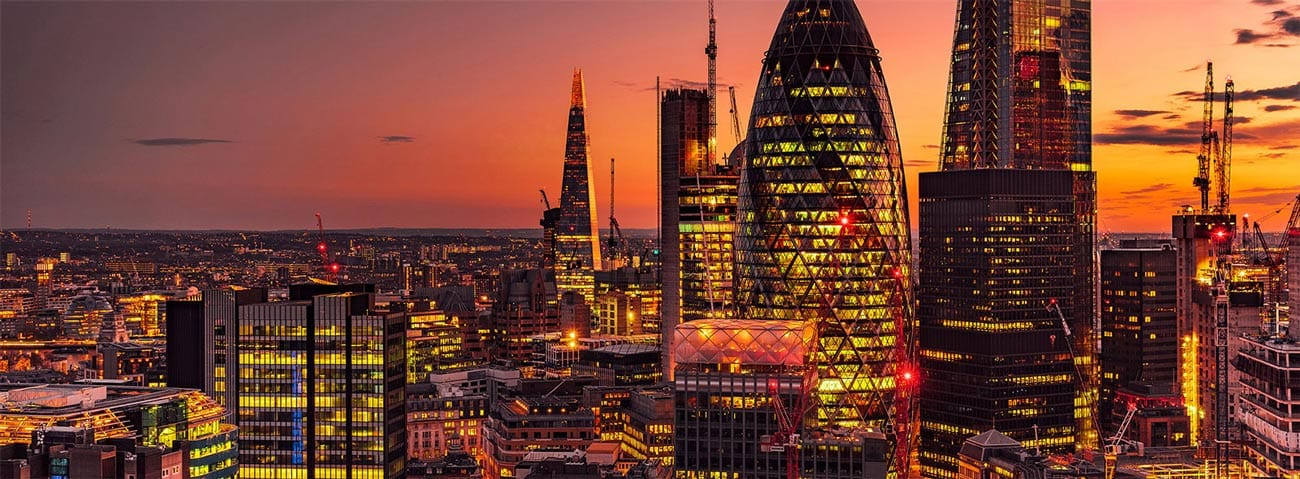
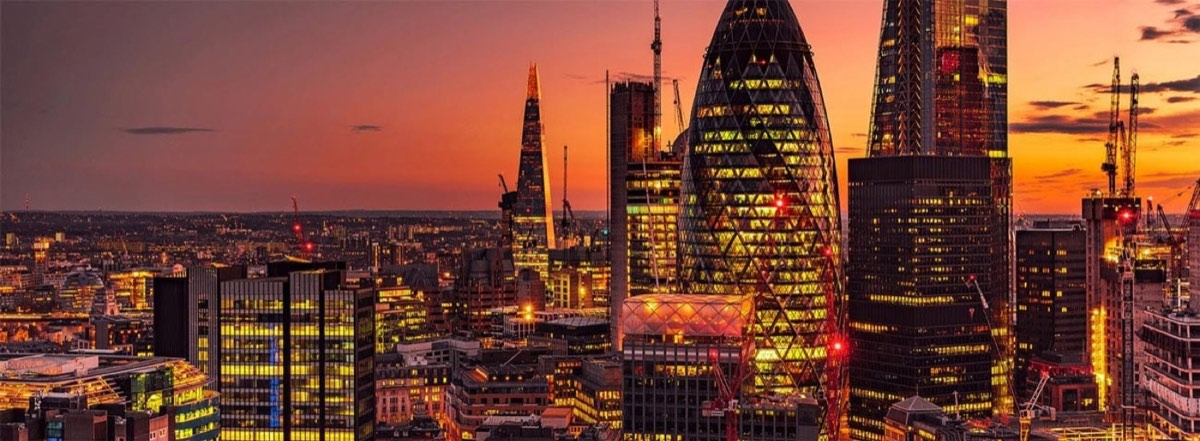
Optimise mobile performance
- Resize oversized case-study images (cs-d 1.3MB -> 260KB)
- Lazy-load below-the-fold card + logo images
- Trim Google Fonts to the 3 weights actually used

diff --git a/index.html b/index.html
@@ -8,7 +8,7 @@
 <link rel="icon" type="image/png" href="assets/images/favicon.png">
 <link rel="preconnect" href="https://fonts.googleapis.com">
 <link rel="preconnect" href="https://fonts.gstatic.com" crossorigin>
-<link href="https://fonts.googleapis.com/css2?family=Fraunces:ital,wght@0,400;0,500;0,600;0,700;1,400;1,500;1,600&family=Inter:wght@300;400;500;600;700&display=swap" rel="stylesheet">
+<link href="https://fonts.googleapis.com/css2?family=Fraunces:ital,wght@0,400;0,500;0,600;1,500&family=Inter:wght@400;500;600&display=swap" rel="stylesheet">
 <link rel="stylesheet" href="assets/css/styles.css">
 </head>
 <body>
@@ -88,26 +88,26 @@
   <div class="marquee">
     <div class="marquee__track">
       <div class="marquee__group">
-        <img src="assets/images/logos/diageo.png" alt="Diageo" style="height:56px">
-        <img src="assets/images/logos/superdrug.webp" alt="Superdrug" style="height:26px">
-        <img src="assets/images/logos/oculus.png" alt="Oculus VR" style="height:26px">
-        <img src="assets/images/logos/ajbell.png" alt="AJ Bell" style="height:30px">
-        <img src="assets/images/logos/skintique.webp" alt="Skintique" style="height:40px">
-        <img src="assets/images/logos/myota.png" alt="Myota Health" style="height:40px">
-        <img src="assets/images/logos/quotezone.png" alt="Quotezone" style="height:26px">
-        <img src="assets/images/logos/westwood.png" alt="Westwood" style="height:42px">
-        <img src="assets/images/logos/brand-extra.png" alt="MOJU" style="height:40px">
+        <img loading="lazy" decoding="async" src="assets/images/logos/diageo.png" alt="Diageo" style="height:56px">
+        <img loading="lazy" decoding="async" src="assets/images/logos/superdrug.webp" alt="Superdrug" style="height:26px">
+        <img loading="lazy" decoding="async" src="assets/images/logos/oculus.png" alt="Oculus VR" style="height:26px">
+        <img loading="lazy" decoding="async" src="assets/images/logos/ajbell.png" alt="AJ Bell" style="height:30px">
+        <img loading="lazy" decoding="async" src="assets/images/logos/skintique.webp" alt="Skintique" style="height:40px">
+        <img loading="lazy" decoding="async" src="assets/images/logos/myota.png" alt="Myota Health" style="height:40px">
+        <img loading="lazy" decoding="async" src="assets/images/logos/quotezone.png" alt="Quotezone" style="height:26px">
+        <img loading="lazy" decoding="async" src="assets/images/logos/westwood.png" alt="Westwood" style="height:42px">
+        <img loading="lazy" decoding="async" src="assets/images/logos/brand-extra.png" alt="MOJU" style="height:40px">
       </div>
       <div class="marquee__group" aria-hidden="true">
-        <img src="assets/images/logos/diageo.png" alt="" style="height:56px">
-        <img src="assets/images/logos/superdrug.webp" alt="" style="height:26px">
-        <img src="assets/images/logos/oculus.png" alt="" style="height:26px">
-        <img src="assets/images/logos/ajbell.png" alt="" style="height:30px">
-        <img src="assets/images/logos/skintique.webp" alt="" style="height:40px">
-        <img src="assets/images/logos/myota.png" alt="" style="height:40px">
-        <img src="assets/images/logos/quotezone.png" alt="" style="height:26px">
-        <img src="assets/images/logos/westwood.png" alt="" style="height:42px">
-        <img src="assets/images/logos/brand-extra.png" alt="" style="height:40px">
+        <img loading="lazy" decoding="async" src="assets/images/logos/diageo.png" alt="" style="height:56px">
+        <img loading="lazy" decoding="async" src="assets/images/logos/superdrug.webp" alt="" style="height:26px">
+        <img loading="lazy" decoding="async" src="assets/images/logos/oculus.png" alt="" style="height:26px">
+        <img loading="lazy" decoding="async" src="assets/images/logos/ajbell.png" alt="" style="height:30px">
+        <img loading="lazy" decoding="async" src="assets/images/logos/skintique.webp" alt="" style="height:40px">
+        <img loading="lazy" decoding="async" src="assets/images/logos/myota.png" alt="" style="height:40px">
+        <img loading="lazy" decoding="async" src="assets/images/logos/quotezone.png" alt="" style="height:26px">
+        <img loading="lazy" decoding="async" src="assets/images/logos/westwood.png" alt="" style="height:42px">
+        <img loading="lazy" decoding="async" src="assets/images/logos/brand-extra.png" alt="" style="height:40px">
       </div>
     </div>
   </div>
@@ -284,7 +284,7 @@
 
     <div class="cards">
       <a class="card reveal" href="case-studies/wellness-drink.html">
-        <img src="assets/images/case-studies/cs-d.jpg" alt="Wellness drink">
+        <img loading="lazy" decoding="async" src="assets/images/case-studies/cs-d.jpg" alt="Wellness drink">
         <div class="card__scrim" aria-hidden="true"></div>
         <div class="card__content">
           <span class="card__tag">Wellness</span>
@@ -297,7 +297,7 @@
       </a>
 
       <a class="card reveal" data-delay="0.1" href="case-studies/real-estate.html">
-        <img src="assets/images/case-studies/cs-real-estate.jpg" alt="Real estate">
+        <img loading="lazy" decoding="async" src="assets/images/case-studies/cs-real-estate.jpg" alt="Real estate">
         <div class="card__scrim" aria-hidden="true"></div>
         <div class="card__content">
           <span class="card__tag">Real estate</span>
@@ -310,7 +310,7 @@
       </a>
 
       <a class="card reveal" data-delay="0.2" href="case-studies/music-software.html">
-        <img src="assets/images/case-studies/cs-c.jpeg" alt="Music software">
+        <img loading="lazy" decoding="async" src="assets/images/case-studies/cs-c.jpeg" alt="Music software">
         <div class="card__scrim" aria-hidden="true"></div>
         <div class="card__content">
           <span class="card__tag">Music</span>
@@ -323,7 +323,7 @@
       </a>
 
       <a class="card reveal" href="case-studies/sustainable-office-supplies.html">
-        <img src="assets/images/case-studies/cs-eco-stationery.webp" alt="Sustainable office supplies">
+        <img loading="lazy" decoding="async" src="assets/images/case-studies/cs-eco-stationery.webp" alt="Sustainable office supplies">
         <div class="card__scrim" aria-hidden="true"></div>
         <div class="card__content">
           <span class="card__tag">Sustainability</span>
@@ -336,7 +336,7 @@
       </a>
 
       <a class="card reveal" data-delay="0.1" href="case-studies/custom-paint.html">
-        <img src="assets/images/case-studies/cs-b.jpeg" alt="Custom paint">
+        <img loading="lazy" decoding="async" src="assets/images/case-studies/cs-b.jpeg" alt="Custom paint">
         <div class="card__scrim" aria-hidden="true"></div>
         <div class="card__content">
           <span class="card__tag">Paint</span>
@@ -349,7 +349,7 @@
       </a>
 
       <a class="card reveal" data-delay="0.2" href="case-studies/festive-beverage.html">
-        <img src="assets/images/case-studies/cs-festive.jpg" alt="Festive beverage">
+        <img loading="lazy" decoding="async" src="assets/images/case-studies/cs-festive.jpg" alt="Festive beverage">
         <div class="card__scrim" aria-hidden="true"></div>
         <div class="card__content">
           <span class="card__tag">Alcohol</span>

diff --git a/case-studies/custom-paint.html b/case-studies/custom-paint.html
@@ -8,7 +8,7 @@
 <link rel="icon" type="image/png" href="../assets/images/favicon.png">
 <link rel="preconnect" href="https://fonts.googleapis.com">
 <link rel="preconnect" href="https://fonts.gstatic.com" crossorigin>
-<link href="https://fonts.googleapis.com/css2?family=Fraunces:ital,wght@0,400;0,500;0,600;0,700;1,400;1,500;1,600&family=Inter:wght@300;400;500;600;700&display=swap" rel="stylesheet">
+<link href="https://fonts.googleapis.com/css2?family=Fraunces:ital,wght@0,400;0,500;0,600;1,500&family=Inter:wght@400;500;600&display=swap" rel="stylesheet">
 <link rel="stylesheet" href="../assets/css/styles.css">
 </head>
 <body>

diff --git a/case-studies/festive-beverage.html b/case-studies/festive-beverage.html
@@ -8,7 +8,7 @@
 <link rel="icon" type="image/png" href="../assets/images/favicon.png">
 <link rel="preconnect" href="https://fonts.googleapis.com">
 <link rel="preconnect" href="https://fonts.gstatic.com" crossorigin>
-<link href="https://fonts.googleapis.com/css2?family=Fraunces:ital,wght@0,400;0,500;0,600;0,700;1,400;1,500;1,600&family=Inter:wght@300;400;500;600;700&display=swap" rel="stylesheet">
+<link href="https://fonts.googleapis.com/css2?family=Fraunces:ital,wght@0,400;0,500;0,600;1,500&family=Inter:wght@400;500;600&display=swap" rel="stylesheet">
 <link rel="stylesheet" href="../assets/css/styles.css">
 </head>
 <body>

diff --git a/case-studies/music-software.html b/case-studies/music-software.html
@@ -8,7 +8,7 @@
 <link rel="icon" type="image/png" href="../assets/images/favicon.png">
 <link rel="preconnect" href="https://fonts.googleapis.com">
 <link rel="preconnect" href="https://fonts.gstatic.com" crossorigin>
-<link href="https://fonts.googleapis.com/css2?family=Fraunces:ital,wght@0,400;0,500;0,600;0,700;1,400;1,500;1,600&family=Inter:wght@300;400;500;600;700&display=swap" rel="stylesheet">
+<link href="https://fonts.googleapis.com/css2?family=Fraunces:ital,wght@0,400;0,500;0,600;1,500&family=Inter:wght@400;500;600&display=swap" rel="stylesheet">
 <link rel="stylesheet" href="../assets/css/styles.css">
 </head>
 <body>

diff --git a/case-studies/real-estate.html b/case-studies/real-estate.html
@@ -8,7 +8,7 @@
 <link rel="icon" type="image/png" href="../assets/images/favicon.png">
 <link rel="preconnect" href="https://fonts.googleapis.com">
 <link rel="preconnect" href="https://fonts.gstatic.com" crossorigin>
-<link href="https://fonts.googleapis.com/css2?family=Fraunces:ital,wght@0,400;0,500;0,600;0,700;1,400;1,500;1,600&family=Inter:wght@300;400;500;600;700&display=swap" rel="stylesheet">
+<link href="https://fonts.googleapis.com/css2?family=Fraunces:ital,wght@0,400;0,500;0,600;1,500&family=Inter:wght@400;500;600&display=swap" rel="stylesheet">
 <link rel="stylesheet" href="../assets/css/styles.css">
 </head>
 <body>

diff --git a/case-studies/sustainable-office-supplies.html b/case-studies/sustainable-office-supplies.html
@@ -8,7 +8,7 @@
 <link rel="icon" type="image/png" href="../assets/images/favicon.png">
 <link rel="preconnect" href="https://fonts.googleapis.com">
 <link rel="preconnect" href="https://fonts.gstatic.com" crossorigin>
-<link href="https://fonts.googleapis.com/css2?family=Fraunces:ital,wght@0,400;0,500;0,600;0,700;1,400;1,500;1,600&family=Inter:wght@300;400;500;600;700&display=swap" rel="stylesheet">
+<link href="https://fonts.googleapis.com/css2?family=Fraunces:ital,wght@0,400;0,500;0,600;1,500&family=Inter:wght@400;500;600&display=swap" rel="stylesheet">
 <link rel="stylesheet" href="../assets/css/styles.css">
 </head>
 <body>

diff --git a/case-studies/wellness-drink.html b/case-studies/wellness-drink.html
@@ -8,7 +8,7 @@
 <link rel="icon" type="image/png" href="../assets/images/favicon.png">
 <link rel="preconnect" href="https://fonts.googleapis.com">
 <link rel="preconnect" href="https://fonts.gstatic.com" crossorigin>
-<link href="https://fonts.googleapis.com/css2?family=Fraunces:ital,wght@0,400;0,500;0,600;0,700;1,400;1,500;1,600&family=Inter:wght@300;400;500;600;700&display=swap" rel="stylesheet">
+<link href="https://fonts.googleapis.com/css2?family=Fraunces:ital,wght@0,400;0,500;0,600;1,500&family=Inter:wght@400;500;600&display=swap" rel="stylesheet">
 <link rel="stylesheet" href="../assets/css/styles.css">
 </head>
 <body>

diff --git a/about.html b/about.html
@@ -8,7 +8,7 @@
 <link rel="icon" type="image/png" href="assets/images/favicon.png">
 <link rel="preconnect" href="https://fonts.googleapis.com">
 <link rel="preconnect" href="https://fonts.gstatic.com" crossorigin>
-<link href="https://fonts.googleapis.com/css2?family=Fraunces:ital,wght@0,400;0,500;0,600;0,700;1,400;1,500;1,600&family=Inter:wght@300;400;500;600;700&display=swap" rel="stylesheet">
+<link href="https://fonts.googleapis.com/css2?family=Fraunces:ital,wght@0,400;0,500;0,600;1,500&family=Inter:wght@400;500;600&display=swap" rel="stylesheet">
 <link rel="stylesheet" href="assets/css/styles.css">
 </head>
 <body>
